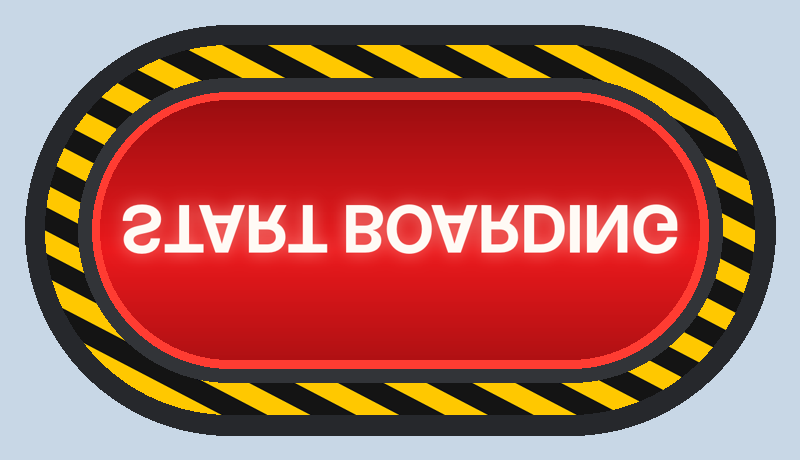
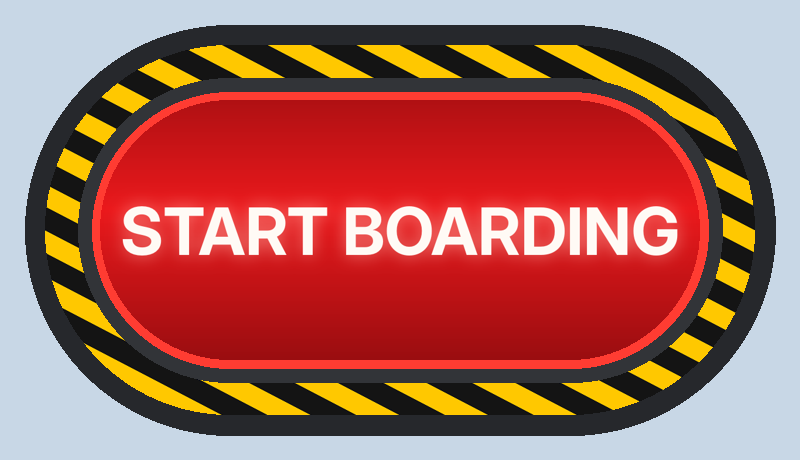
Bouton START BOARDING : texte dans le bon sens
Claude-Session: https://claude.ai/code/session_01XHAbFR5m4XSGKWy8cTRwq6

Changed region(s): [[0.4375, 0.4261, 0.875, 0.5783], [0.1562, 0.4261, 0.4062, 0.5783]]

diff --git a/Outils/bouton_embarquement.py b/Outils/bouton_embarquement.py
@@ -49,7 +49,7 @@ def texture_capuchon():
     halo = halo.filter(ImageFilter.GaussianBlur(14))
     img.paste((255, 170, 160), mask=halo.point(lambda a: a * 0.7))
     d.text(((W - w) / 2, Hh / 2 - 66), txt, font=f, fill=(255, 250, 245))
-    return img.transpose(Image.FLIP_TOP_BOTTOM)
+    return img
 
 
 def anneau_danger():
@@ -84,7 +84,7 @@ def build():
         sc.add_geometry(m, node_name=nom, geom_name=nom)
     out = os.path.join(SORTIE, "Bouton_StartBoarding.glb")
     sc.export(out)
-    tex.transpose(Image.FLIP_TOP_BOTTOM).save(os.path.join(SORTIE, "texture_start_boarding.png"))
+    tex.save(os.path.join(SORTIE, "texture_start_boarding.png"))
     print(out)
 
 
